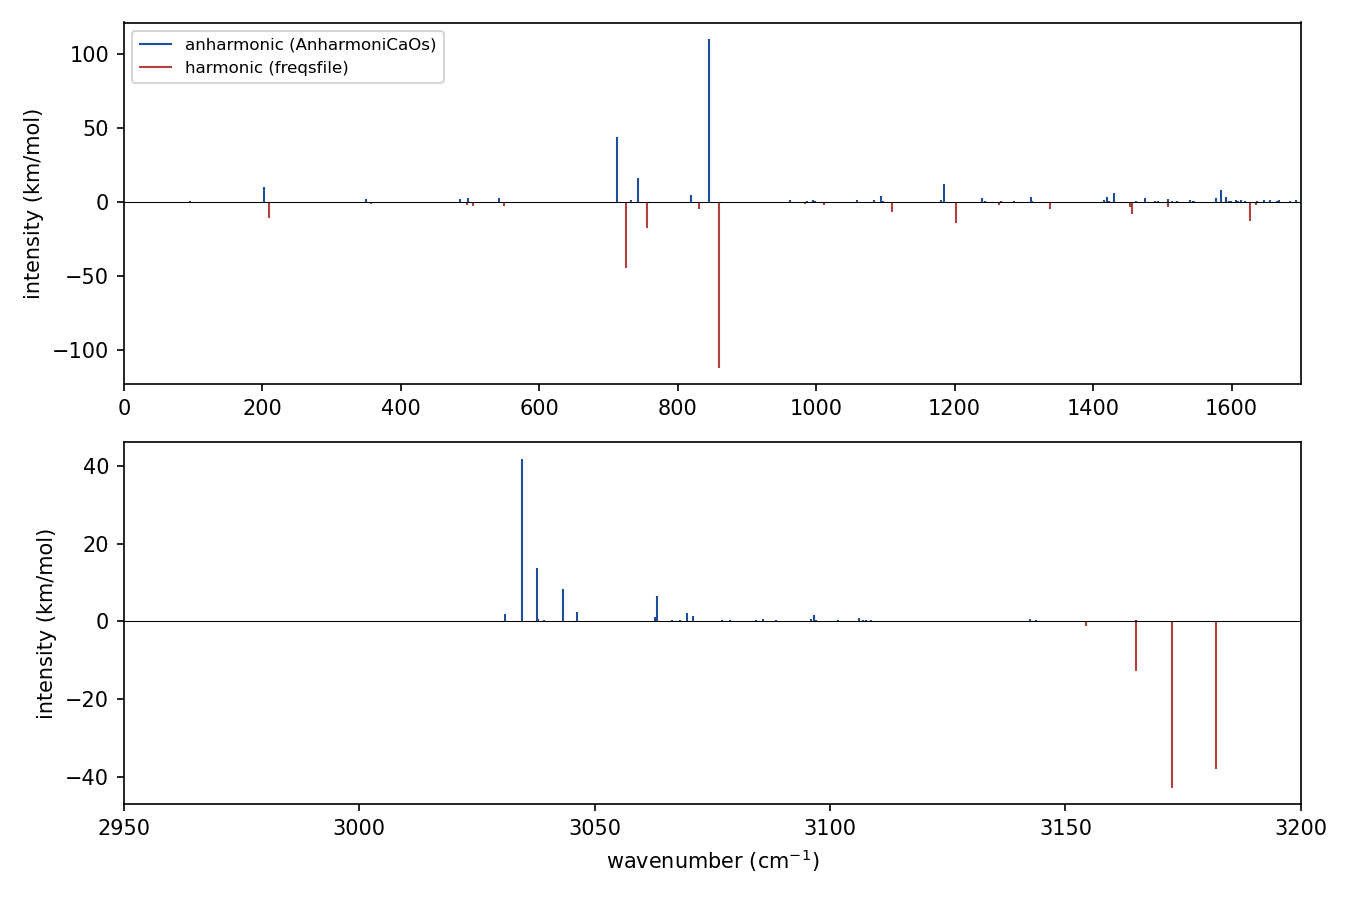
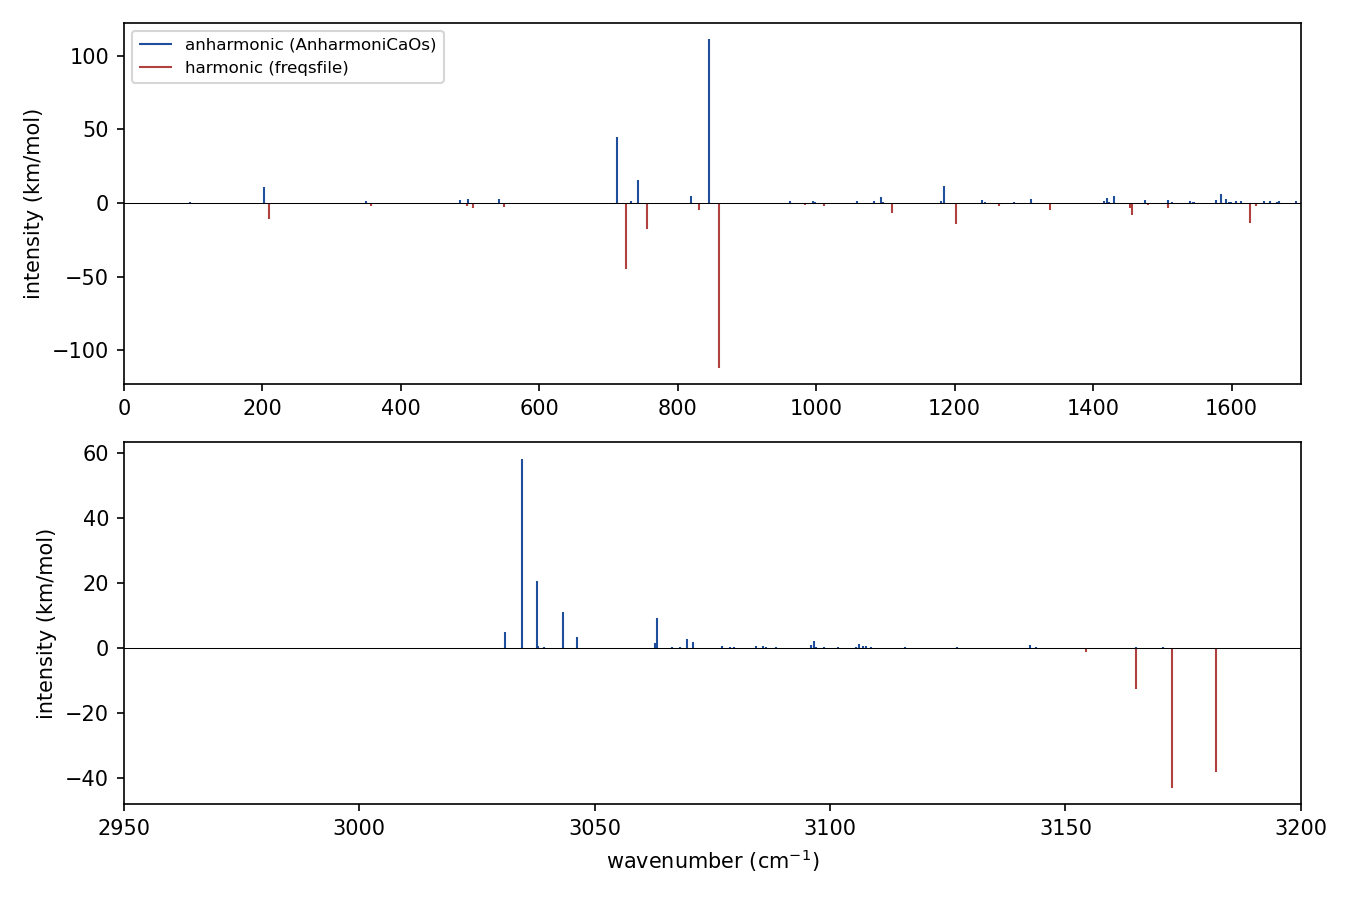
dipole3balance: new option, on by default; Tutorial 1 numbers and figure
The code (gmulas/AnharmoniCaOs, branch feature/dipole3-balance, git
966942c) adds the option dipole3balance, 1 by default: the balancing
terms of the third-order transformed dipole, which take back to the
fundamentals the dipole strength lent at second order to overtones and
combinations. dipole3 = 1 keeps all the terms.

- Input reference: the new entry, and dipole3 rewritten; dmu3file is read
  only with dipole3 = 1.
- Tutorial 1: total, strongest lines and figure from a run of run.sh
  with git 966942c (total 481.694 km/mol instead of 446.059; the
  wavenumbers do not change); what dipole3balance = 0 and dipole3 = 1
  give; the eigensolver timings and the other variations are marked as
  run before the new default.
- Tutorial 3: its totals predate the new default; how to reproduce them.

Checked: make pdf builds (83 pages, no undefined references).

diff --git a/chapters/tutorial-pyrene.tex b/chapters/tutorial-pyrene.tex
@@ -108,20 +108,20 @@ lines and draws Figure~\ref{fig:pyrene}:
 \begin{lstlisting}
 python3 plot_spectrum.py . 8
 \end{lstlisting}
-The run gives 4245 lines with a total of 446.1~km/mol. The strongest are:
+The run gives 4245 lines with a total of 481.7~km/mol. The strongest are:
 \begin{center}
 \begin{tabular}{rr}
 \toprule
 wavenumber (cm$^{-1}$) & intensity (km/mol) \\
 \midrule
-844.79 & 109.92 \\
-711.91 & 43.95 \\
-3034.57 & 41.85 \\
-742.61 & 16.00 \\
-3037.70 & 13.68 \\
-1184.00 & 12.16 \\
-202.22 & 10.19 \\
-3043.19 & 8.31 \\
+844.79 & 111.50 \\
+3034.58 & 58.08 \\
+711.91 & 44.64 \\
+3037.70 & 20.58 \\
+742.61 & 15.98 \\
+1184.00 & 11.39 \\
+3043.19 & 11.06 \\
+202.22 & 10.94 \\
 \bottomrule
 \end{tabular}
 \end{center}
@@ -137,8 +137,14 @@ split among the states they are in resonance with.}
 \end{figure}
 
 These numbers and the figure come from a run of \file{run.sh} with the
-development version that follows 2026.11.2 (\texttt{git 86430f8}, the first
-with \opt{closureterms}~$=1$ by default) on a laptop, with 4 processes.
+development version that follows 2026.11.2 (\texttt{git 966942c}, the first
+with \opt{dipole3balance}~$=1$ by default) on a laptop. With
+\opt{dipole3balance}~$=0$ the lines are at the same wavenumbers and the total
+is 446.06~km/mol: the balancing terms of the third-order dipole take
+intensity back to the fundamentals from the overtones and combinations it
+was lent to, mostly to the CH stretches (from 96.4 to 135.4~km/mol between
+2700 and 3200~cm$^{-1}$), while the band between 1000 and 2000~cm$^{-1}$
+loses 6.7~km/mol.
 
 \subsection*{Choice of the eigensolver}
 
@@ -158,8 +164,9 @@ phase 2b:
   polyads of 3400 states and more, without any error.
 \end{itemize}
 
-Wall time of phase 2b of this tutorial on a laptop, with the same version
-(\texttt{git 86430f8}); the three runs give the same total, 446.06~km/mol:
+Wall time of phase 2b of this tutorial on a laptop, with \texttt{git 86430f8}
+(before \opt{dipole3balance}~$=1$ became the default, which does not change
+the cost); the three runs give the same total, 446.06~km/mol:
 \begin{center}
 \begin{tabular}{lrr}
 \hline
@@ -181,7 +188,10 @@ the spectrum agrees with the other solvers within its resolution
 
 \section{Variations}\label{sec:tut-pyrene-var}
 
-The same run with the options of Chapter~\ref{ch:inputs}:
+The same run with the options of Chapter~\ref{ch:inputs}. Except for the
+third-order dipole, these variations were run before
+\opt{dipole3balance}~$=1$ became the default, so the totals they quote
+refer to 446.06~km/mol:
 \begin{itemize}
 \item \opt{shiftgeometry}: lines shift by up to about 4~cm$^{-1}$, and some
   intensities change by 10--15\%;
@@ -191,8 +201,12 @@ The same run with the options of Chapter~\ref{ch:inputs}:
   stretch line moves from 3034.57 to 3035.46~cm$^{-1}$, the shoulder near
   3043~cm$^{-1}$ moves to 3042.34, and the relative L1 distance between
   the two spectra at 5~cm$^{-1}$ resolution is 6.7\%;
-\item \opt{dipole3}: the CH stretches go from 7.5\% to 10.3\% of the total
-  intensity.
+\item \opt{dipole3}~$=1$, all the terms of the third-order dipole (no
+  \file{dmu3file} here): the total goes from 481.69 to 489.20~km/mol, the
+  CH stretches from 135.40 to 138.79 and the band between 1000 and
+  2000~cm$^{-1}$ from 111.08 to 112.27; \opt{dipole3balance}~$=0$, no
+  third-order dipole: 446.06, 96.40 and 117.82~km/mol (\texttt{git
+  966942c}).
 \item \opt{fermithres}~$=$~\opt{ddthres}~$=0.1$, the default: phase 1
   finds 3078 resonances (2700 E4, 183 B3, 185 D4, 10 G2), the largest
   polyad has 7179 states instead of 3094, and phase 2b takes about nine

diff --git a/chapters/inputs.tex b/chapters/inputs.tex
@@ -65,7 +65,7 @@ rescandthres = thres/20  # an expression
   \opt{phi4threshold} (cm$^{-1}$) are dropped.
 \item[\file{dmu2file}] Lines \texttt{i j dx dy dz}: second derivatives of
   the dipole.
-\item[\file{dmu3file}] Optional, with \opt{dipole3}: lines
+\item[\file{dmu3file}] Optional, read only with \opt{dipole3}~$=1$: lines
   \texttt{i j k dx dy dz}. Missing entries are taken as zero.
 \item[\opt{modepopfile}] Starting states: the quantum numbers of all modes,
   then the repetition count.
@@ -129,7 +129,8 @@ number) and where it is mentioned or used.
 \subsection*{Geometry and dipole}
 \begin{description}
 \optentry{shiftgeometry}{0}{1}{Move the reference geometry and the normal modes so that the linear terms of the normal-ordered Hamiltonian vanish exactly; frequencies, force constants and dipole derivatives are replaced by those of the new modes. The new quantities are written to \file{*.shifted} (Chapter~\ref{ch:outputs}). A run that reads the \file{*.shifted} files with \opt{shiftgeometry}~$=0$, \opt{gradientfile}~$=$~\texttt{"gradient.shifted"}, \opt{phi3threshold}~$=$~\opt{phi4threshold}~$=$~\opt{dmu2threshold}~$=$~\opt{fundthres}~$=0$ and \opt{bandlistfile} set to a copy of the \file{bandlist} of the shifted run reproduces the shifted run exactly (\opt{fundthres}~$=0$ keeps the small dipole derivatives that the shift gives to the symmetry-forbidden modes; the band list keeps the same fundamentals active). Changes results.}
-\optentry{dipole3}{0}{1}{Third-order transformed dipole for fundamentals and hot bands. Changes intensities.}
+\optentry{dipole3balance}{1}{1}{Add to the fundamentals and hot bands the balancing part of the third-order transformed dipole, the two terms that contain only the first-order generator \notes{Sec.~cl:dipole3}. At second order the nonresonant terms lend intensity from the fundamentals to overtones and combinations; these terms take the same dipole strength away from the fundamentals, as the unitarity of the transformation requires. \file{dmu3file} is not needed. In Tutorial~1 the total absorption goes from 446.06 to 481.69~km/mol and the CH stretches from 96.4 to 135.4~km/mol. The default since the release after 2026.11.2; 0 reproduces the results of earlier releases (with \opt{dipole3}~$=0$). Ignored with \opt{dipole3}~$=1$, which includes these terms. Changes intensities.}
+\optentry{dipole3}{0}{1}{All the terms of the third-order transformed dipole for fundamentals and hot bands: the balancing part of \opt{dipole3balance} and the third-order anharmonicity proper, with the third derivatives of the dipole of \file{dmu3file} if present. In Tutorial~1 (no \file{dmu3file}) the total absorption is 489.20~km/mol. Changes intensities.}
 \end{description}
 
 \subsection*{Bands}

diff --git a/chapters/tutorial-thermal.tex b/chapters/tutorial-thermal.tex
@@ -437,7 +437,10 @@ $T$ (K) & \texttt{anharmonic} & \texttt{harmonic} \\
 \end{tabular}
 \end{center}
 At 0~K both are the spectrum of Tutorial~1. At 200~K the two schemes
-differ by 0.03\,\%.
+differ by 0.03\,\%. These runs predate \opt{dipole3balance}~$=1$, the
+default since \texttt{git 966942c}: add \opt{dipole3balance}~$=0$ with
+\texttt{--inp-extra} to reproduce them; with the default the totals are
+larger, by 35.6~km/mol at 0~K (Tutorial~1).
 \begin{itemize}
 \item \textbf{The normalisation.} With the border, some starting states
 lost part of their weight, and in the harmonic scheme their spectra
